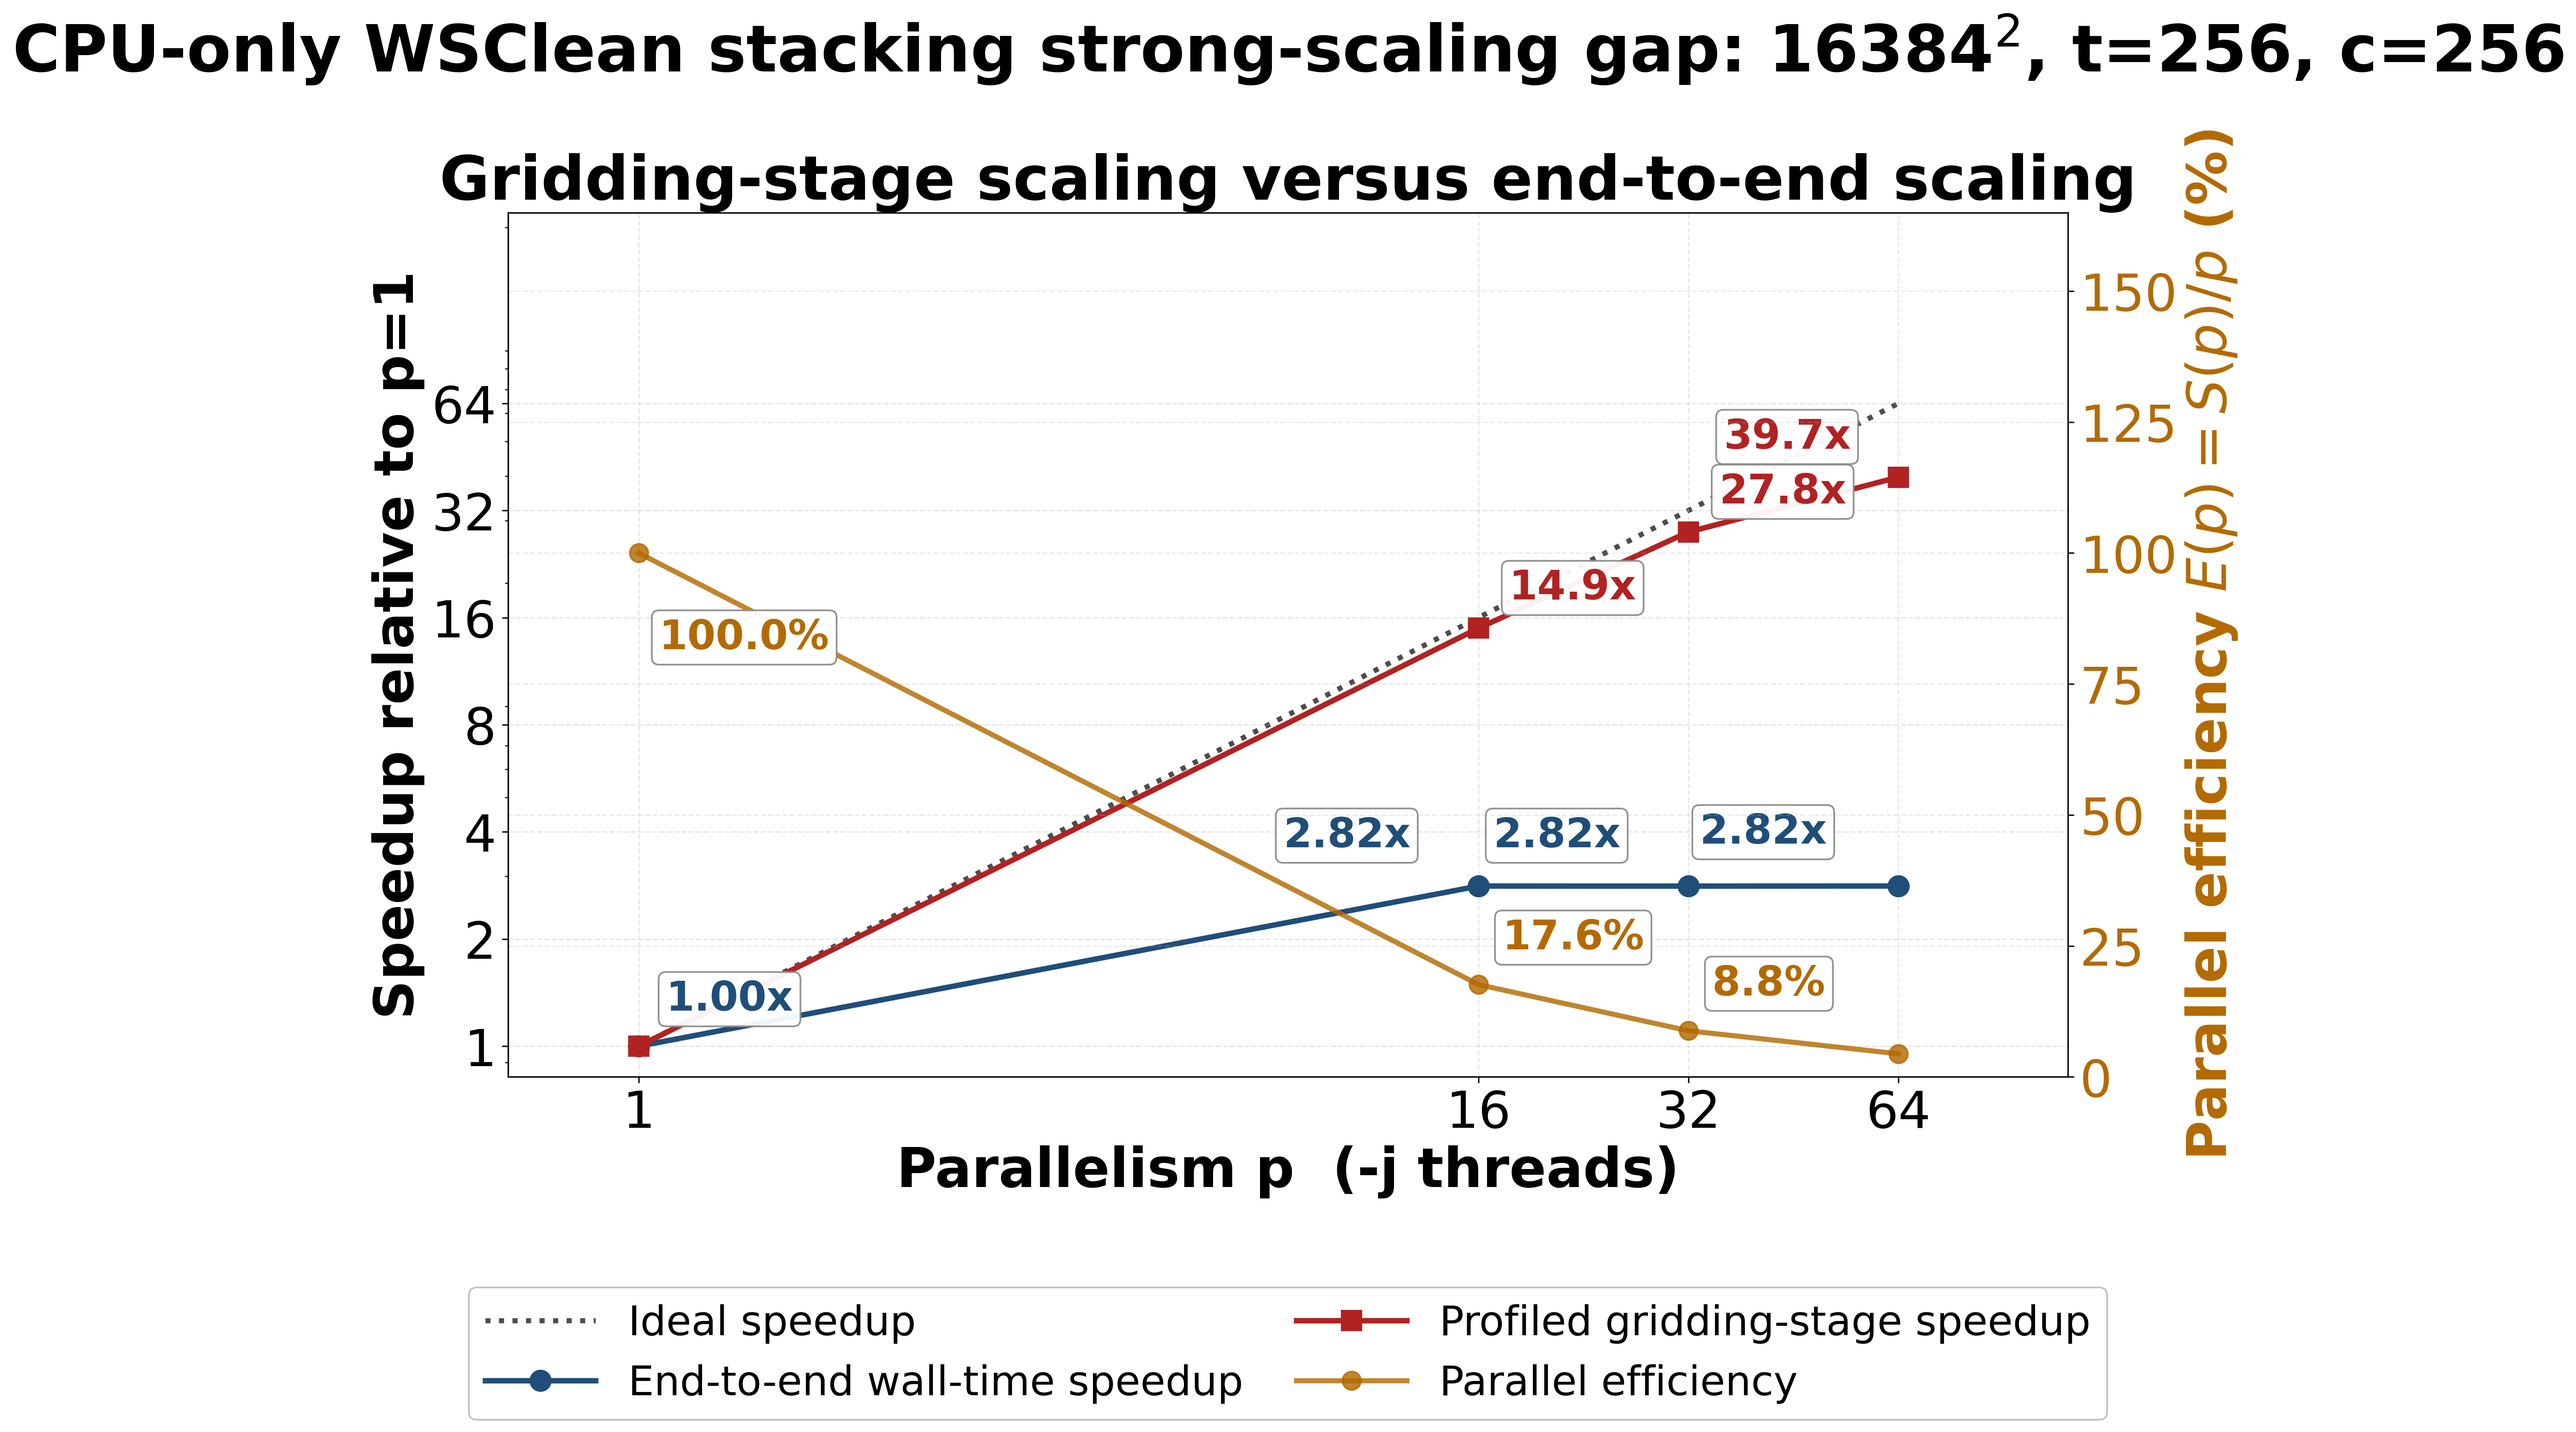
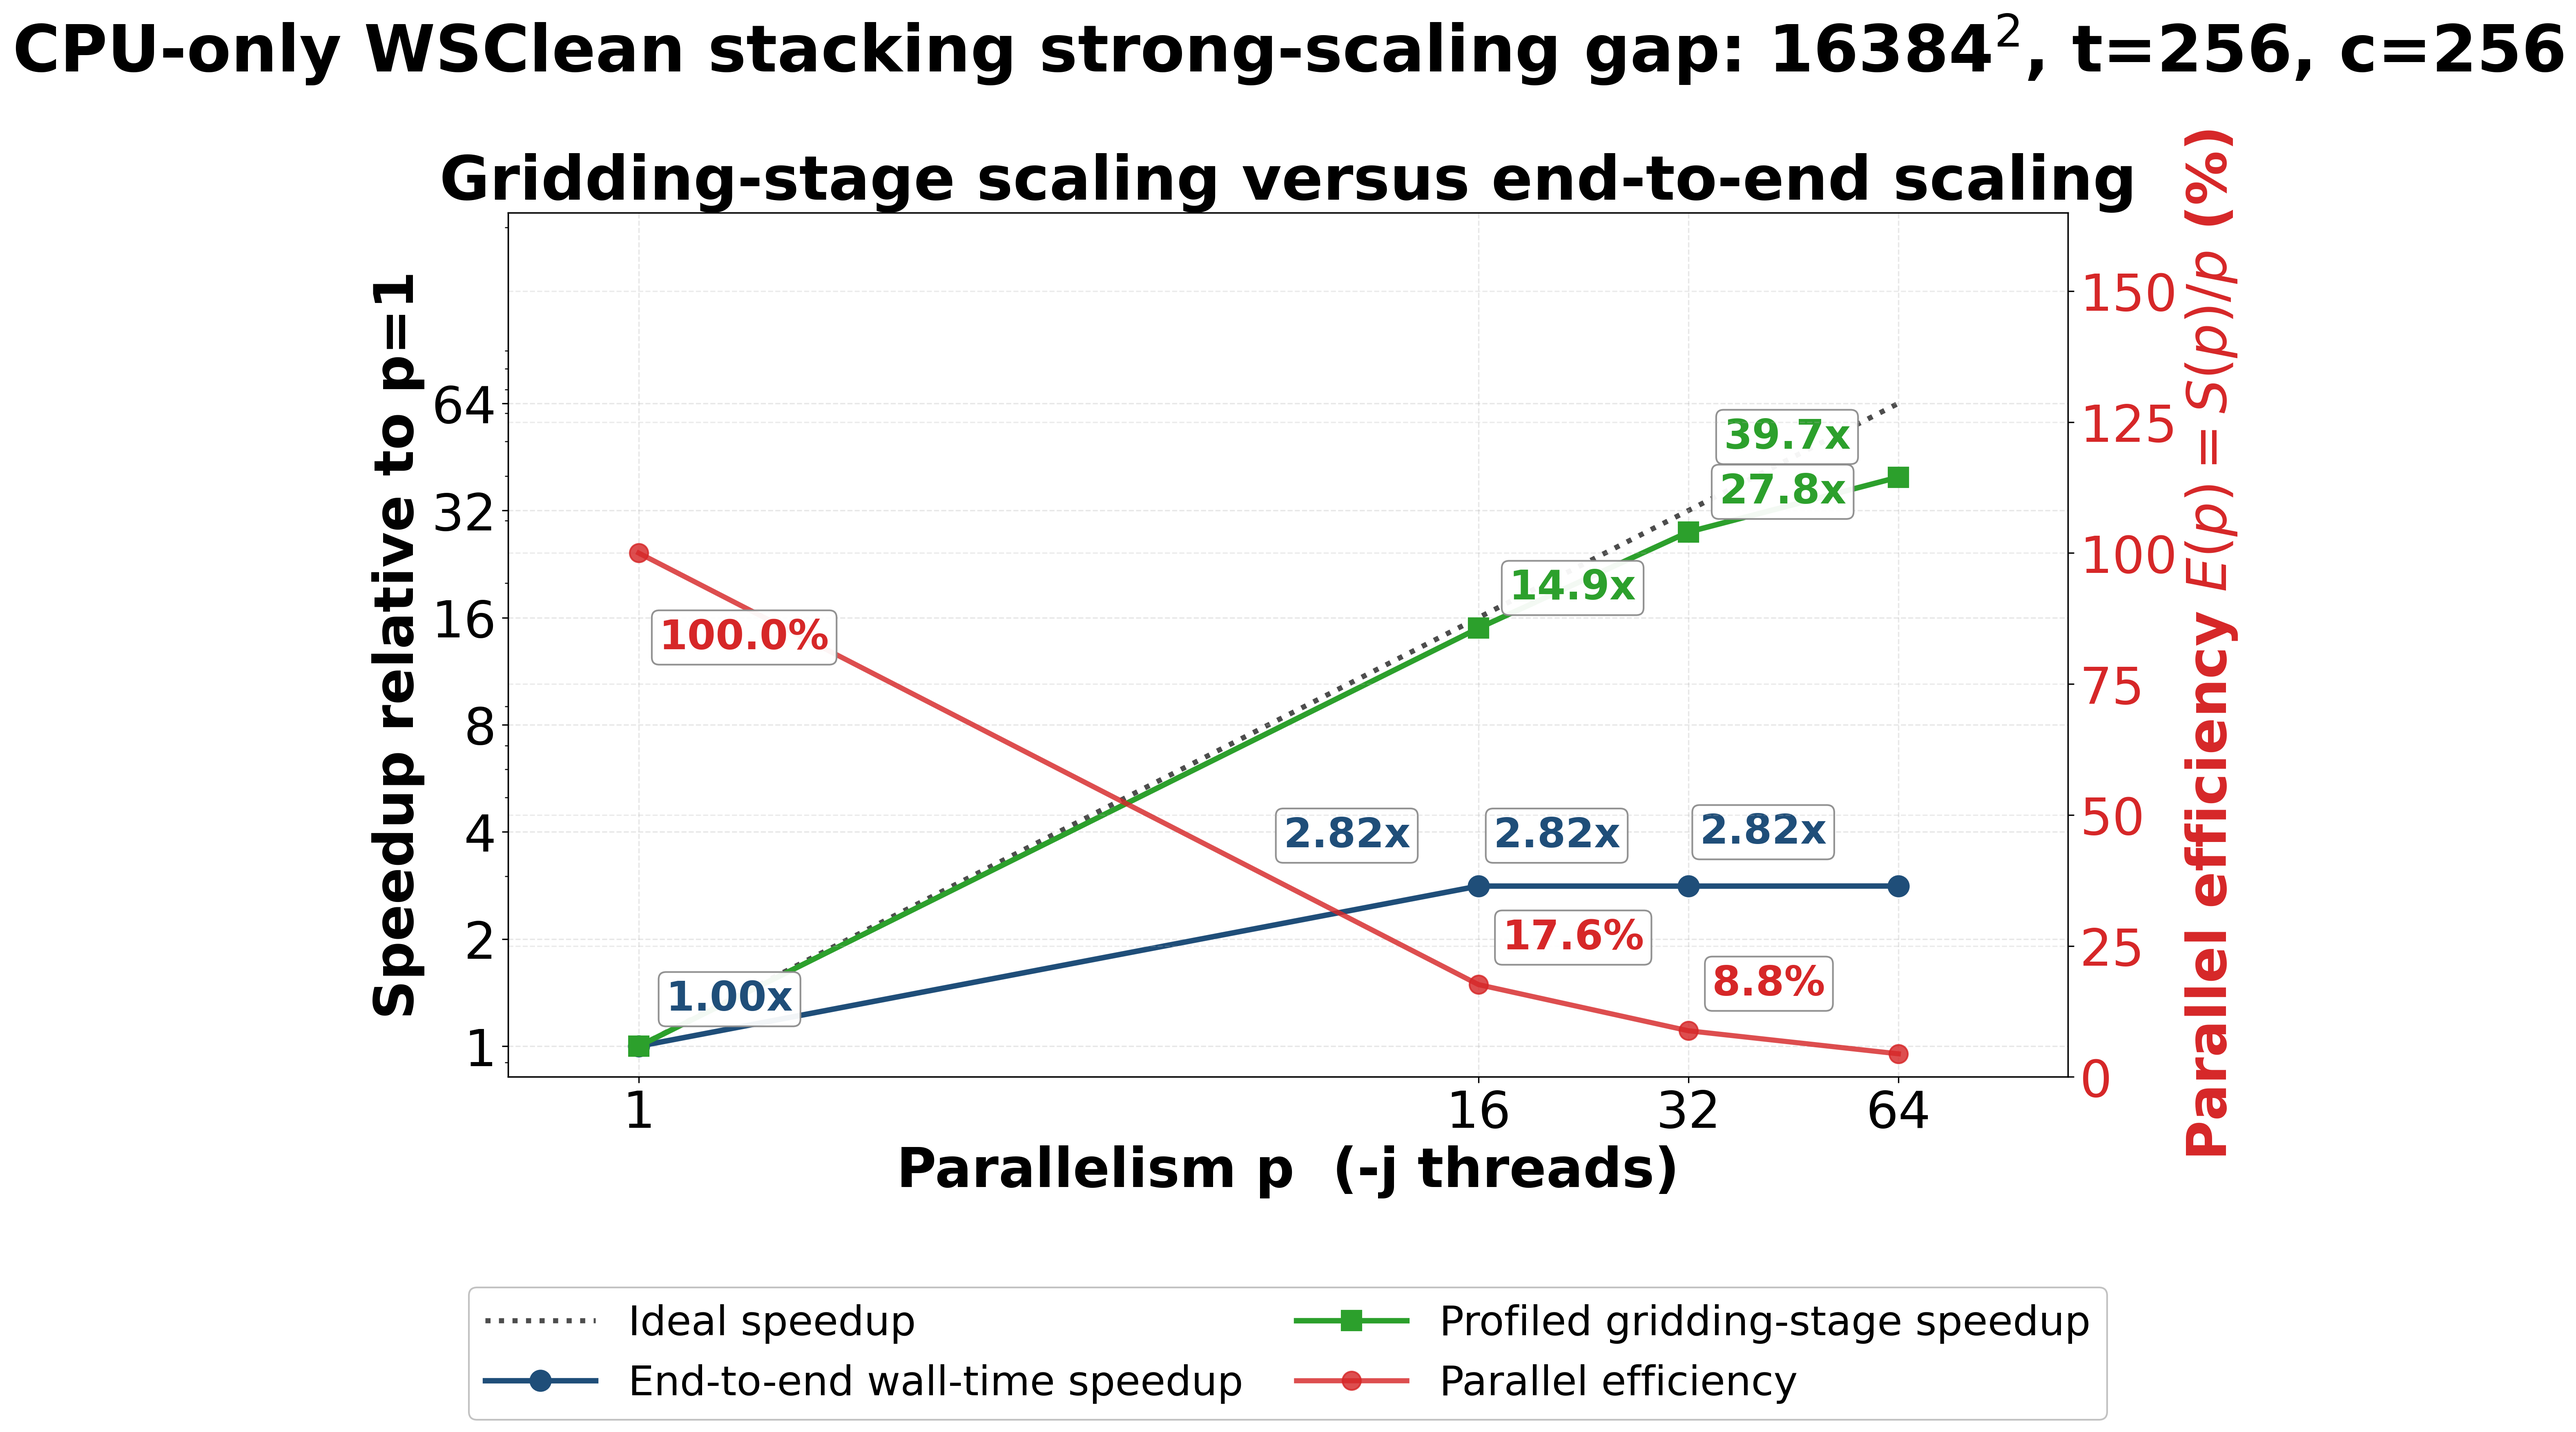
style change for interpetability in cpu scalability plot

diff --git a/scripts/plot31b_cpu_scaling_gap_only.py b/scripts/plot31b_cpu_scaling_gap_only.py
@@ -46,8 +46,8 @@ plt.rcParams.update(
 
 IDEAL_COLOR = "0.30"
 WALL_SPEEDUP_COLOR = "#1f4e79"
-GRID_SPEEDUP_COLOR = "#b22222"
-EFFICIENCY_PLOT_COLOR = "#b36a00"
+GRID_SPEEDUP_COLOR = "#2ca02c"
+EFFICIENCY_PLOT_COLOR = "#d62728"
 
 TITLE_FONT = 36
 AXIS_LABEL_FONT = 32
@@ -287,5 +287,5 @@ if __name__ == "__main__":
     sys.exit(main())
 IDEAL_COLOR = "0.30"
 WALL_SPEEDUP_COLOR = "#1f4e79"
-GRID_SPEEDUP_COLOR = "#b22222"
-EFFICIENCY_PLOT_COLOR = "#b36a00"
+GRID_SPEEDUP_COLOR = "#2ca02c"
+EFFICIENCY_PLOT_COLOR = "#d62728"
